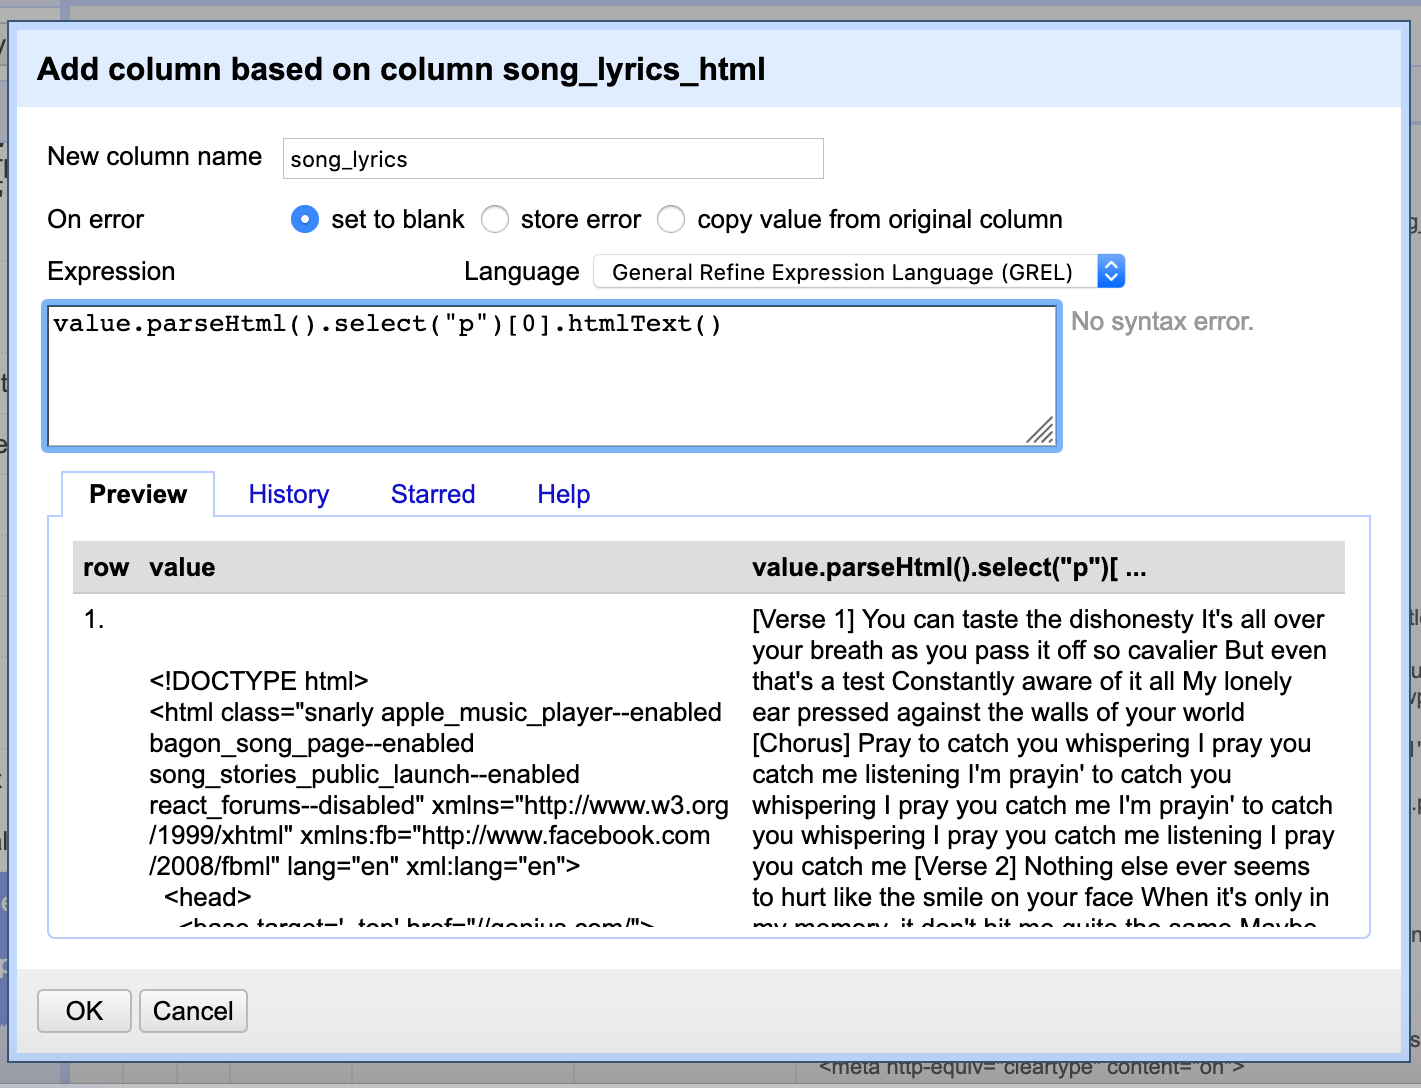
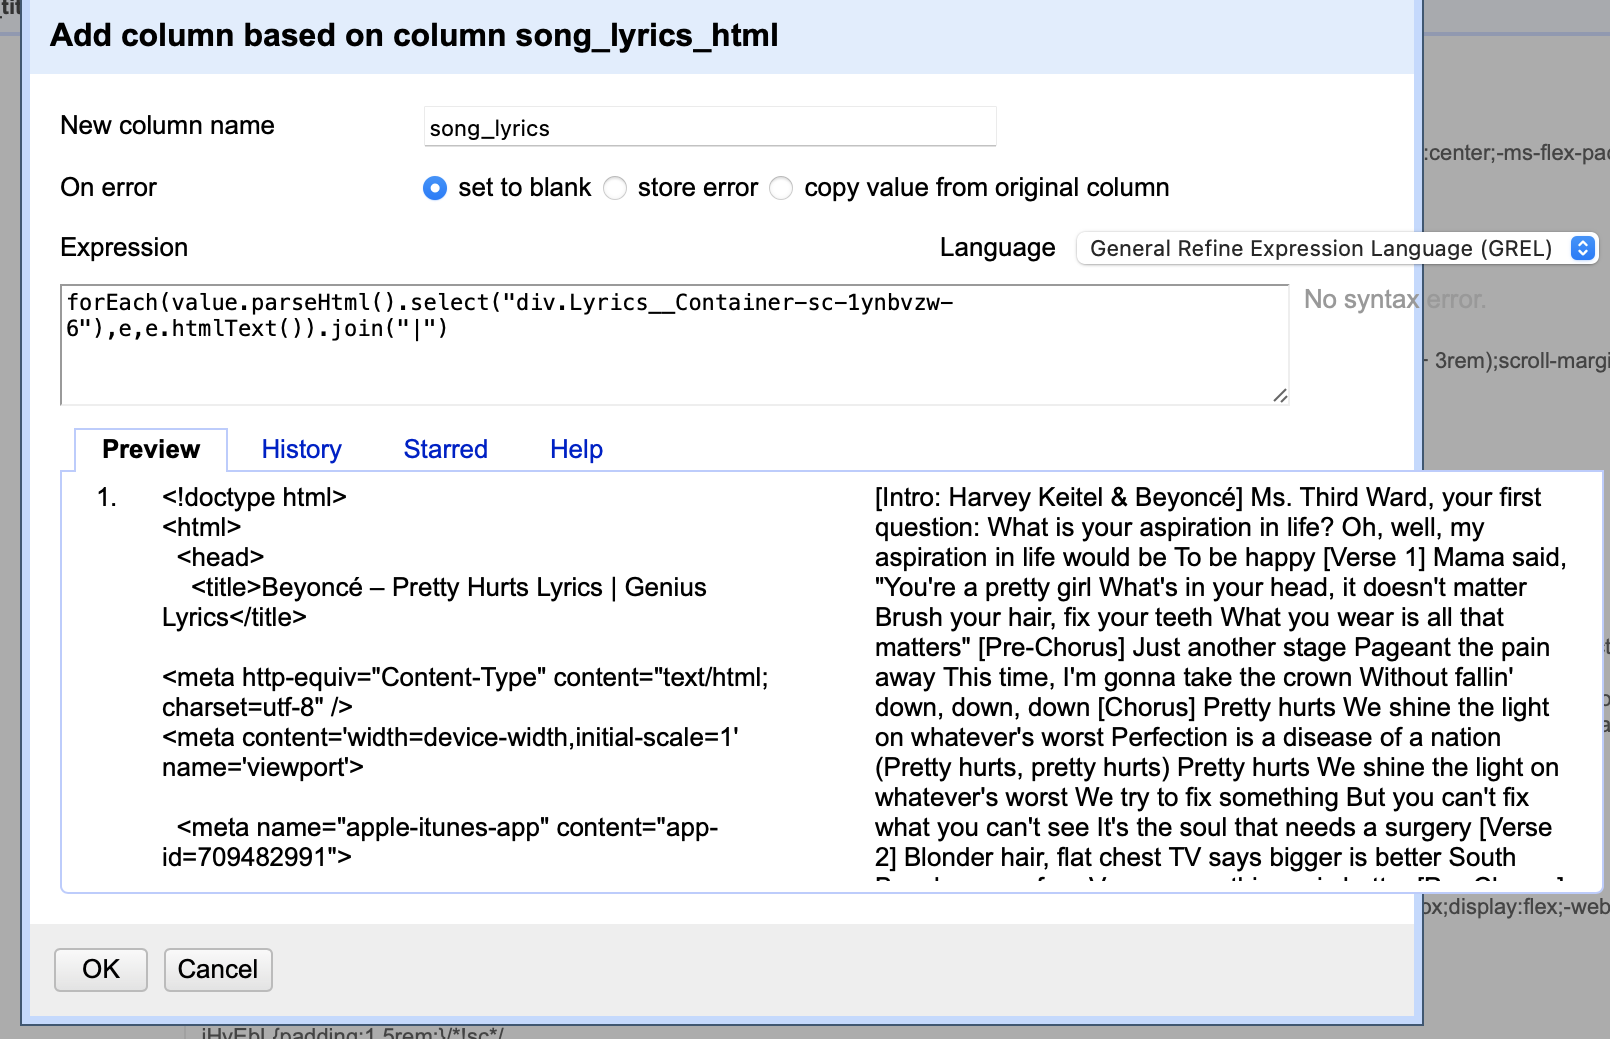
updated wk6

diff --git a/slides/IntroDH-F22-wk6-thu.md b/slides/IntroDH-F22-wk6-thu.md
@@ -96,6 +96,7 @@ Or you could try to partially automate the process.
 
 
 **Compare with the URL for Beyoncé's album, *I Am...Sasha Fierce* (2008)** 
+
 https://genius.com/albums/Beyonce/I-Am-Sasha-Fierce
 
 What do you think the URL would look like for her album, *B'Day* (2006)?
@@ -136,7 +137,7 @@ Because we know that Genius URLs for follow a standard convention, we can use th
 5. In the box that appears, enter "album_tracklist_url" for the new column name. Then, we're type in some lightweight code to take the values from our columns **artist** and **album** and turn them into parts of URLs. Paste the code below into the Expression box
 <section>
   <pre><code>
-	"https://genius.com/albums/" + value.escape('url') + "/" +cells['album'].value.escape('url')"
+	"https://genius.com/albums/" + value.escape('url') + "/" +cells['album'].value.escape('url')
   </code></pre>
 </section>
 
@@ -145,7 +146,7 @@ Because we know that Genius URLs for follow a standard convention, we can use th
 Note:
 Here, we're using a language called General Refine Expression Language to stitch together a URL: the first part "https://genius.com/albums/" is part the, `value` is a pre-sent variable -- it takes whatever value is in the starting column. We do the same thing to the `value` in the column labeled `Album`
 
-We should get something like: https://genius.com/albums/artist_name/albumn_name
+We should get something like: https://genius.com/albums/artist_name/album_name
 
 
 
@@ -266,7 +267,7 @@ Now let's extract the URLs links to the song lyrics pages:
 12.  Then, enter "song_titles_urls" for the new column name and paste the following text in the window:
 <section>
   <pre><code>
-	forEach(value.parseHtml().select("a[href].u-display_block"),e,e.htmlAttr("href")).join(" ||| ")
+	forEach(value.parseHtml().select("a[href].u-display_block"),e,e.htmlAttr("href")).join("|||")
   </code></pre>
 </section>
 
@@ -298,7 +299,7 @@ Notice all of those `|||`s? We can use them as delimiters to split up our data s
 
 We can split up our data so each song is on its own row: 
 
-14. Click on the triangle in the "song_titles"" column, and select "Edit cells" and then, "Split multi-valued cells..."
+14. Click on the triangle in the "song_titles" column, and select "Edit cells" and then, "Split multi-valued cells..."
 
 ![image](../images/OpenRefine7.png)
 
@@ -309,7 +310,7 @@ We can split up our data so each song is on its own row:
 
 Repeat these steps for "song_titles_urls"
 
-16. Click on the triangle in the "song_titles_urls_"" column, and select "Edit cells" and then, "Split multi-valued cells..."
+16. Click on the triangle in the "song_titles_urls" column, and select "Edit cells" and then, "Split multi-valued cells..."
 17. Then, in the window that pops up, enter `|||` as the separator. 
 
 
@@ -317,7 +318,7 @@ Repeat these steps for "song_titles_urls"
 Now, let's make sure that the metadata is copied over to these new rows:
 
 18. Click on the triangle in the column "artist" and select "Edit cells" and then "Fill down"
-19. Repeat this step for "album," "album_tracklist_url," and "release_date_"
+19. Repeat this step for "album," "album_tracklist_url", and "release_date"
 ![image](../images/OpenRefine9.png)
 
 What happened? 
@@ -363,10 +364,11 @@ ANSWER:
 The HTML element for the lyrics is:
 <section>
   <pre><code>
-	p
+	div.Lyrics__Container-sc-1ynbvzw-6
   </code></pre>
 </section>
 
+If you scroll down, you might find that each verse has its own container, so we'll need to iterate over all appearances of this tag to get them all on the page.
 
 
 ### Extracting text from an HTML page
@@ -377,7 +379,7 @@ Now we're going to extract the lyrics from this soup of HTML:
 25.  Then, enter "song_lyrics" for the new column name and paste the following text in the window:
 <section>
   <pre><code>
-	value.parseHtml().select("p")[0].htmlText()
+	forEach(value.parseHtml().select("div.Lyrics__Container-sc-1ynbvzw-6"),e,e.htmlText()).join("|")
   </code></pre>
 </section>
 
@@ -407,9 +409,13 @@ OpenRefine keeps a running record of every action you take, and allows you to st
 
 ## Advanced stuff you can do with OpenRefine
 
+
 - Walk backward through the steps you've taken using UNDO/REDO
 - Parse much larger datasets
 - Work with data from other sources (like JSON)
+
+Web-scraping with OpenRefine helps you understand the different layers needed to perform more compact web-scraping queries. Python has a simple but powerful library for Web-scraping called "Beautiful Soup" that allows us to perform many of the steps in web scraping. Like using OpenRefine, you have to know what sources come from what other sources in order to understand the different steps necessary to fetch data from a source like a webpage.
+
 
 If you're interested in learning more, or think that you might want to use web scraping or OpenRefine in your own project, I've put [a document on our course website with additional tricks and tips](https://github.com/sceckert/IntroDHFall2022/blob/main/_week6/advanced-tips-for-webscraping.md)
 
